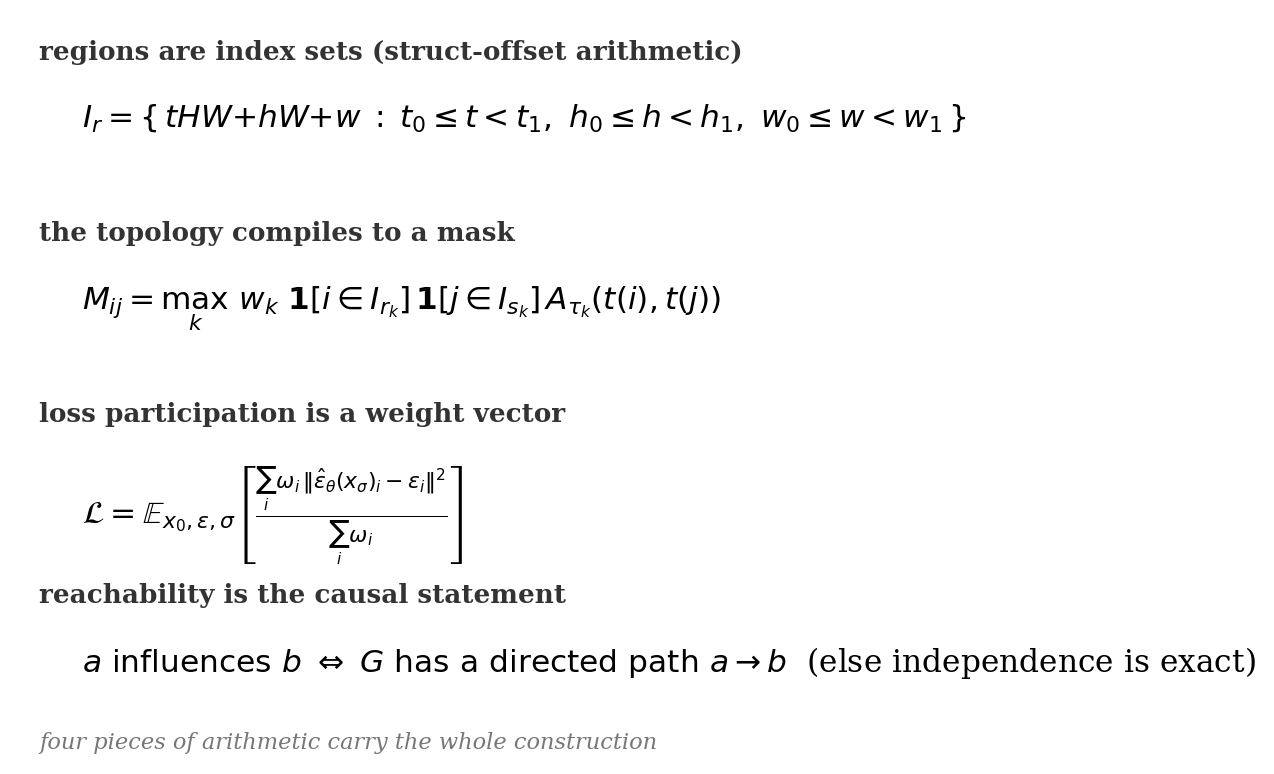
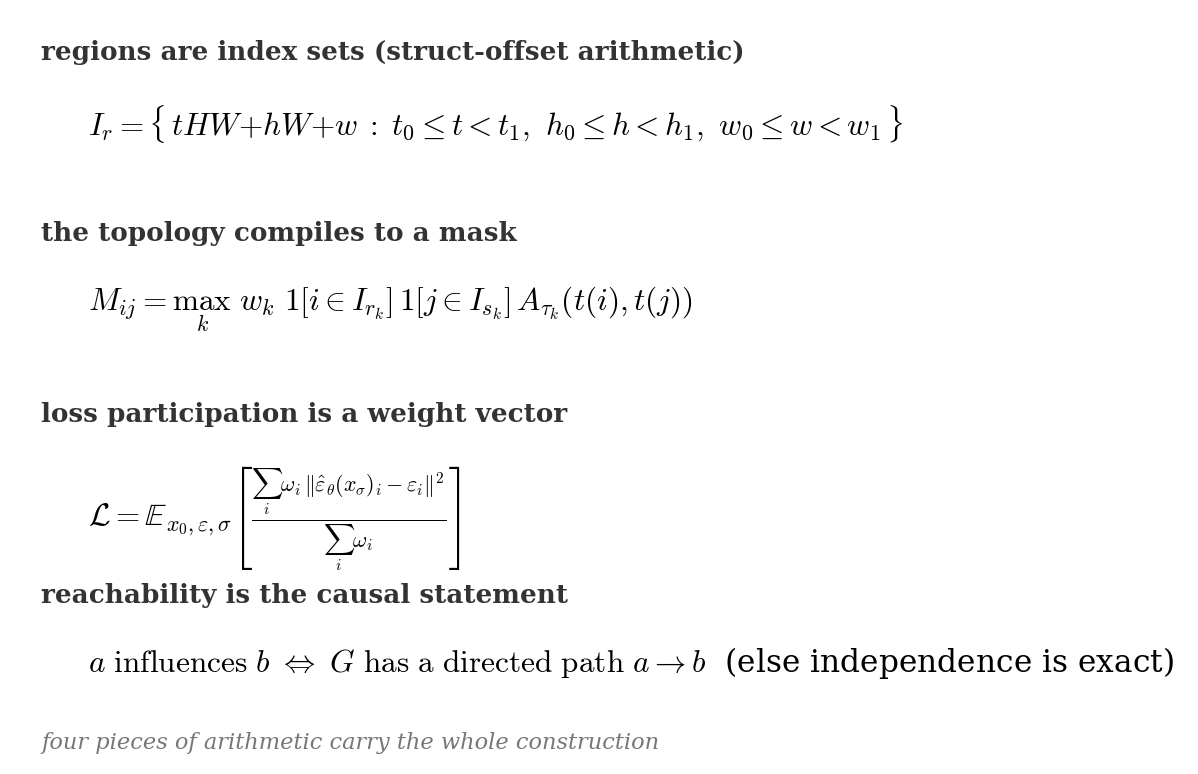
Serif math, cleaner mask, proper perspective stagger
- Set mathtext.fontset=cm so equations in the figures (math card, etc.)
  render in Computer Modern serif instead of sans DejaVu.
- attention_mask: remove the 90deg-rotated red 'N skipped' label that
  overlapped the matrix and was cropped/redundant; the break marks plus
  the 'visual*180 (164 skipped)' bar label already say it.
- render_stagger: replace the flat translation-only stagger with a real
  perspective projection — tiles tilted at a high angle, spread
  horizontally, overlapping slightly, receding with camera perspective.
  Time labels moved to each tile's lower-left, clear of the title.

diff --git a/paper/make_thread_assets.py b/paper/make_thread_assets.py
@@ -25,7 +25,8 @@ HERE = os.path.dirname(os.path.abspath(__file__))
 OUT = os.path.join(HERE, "thread_assets")
 os.makedirs(OUT, exist_ok=True)
 
-plt.rcParams.update({"font.family": "serif", "font.size": 10, "figure.dpi": 180})
+plt.rcParams.update({"font.family": "serif", "font.size": 10, "figure.dpi": 180,
+                     "mathtext.fontset": "cm"})  # Computer Modern: serif math
 
 C_VISUAL, C_ACTION, C_REWARD = "#7db8e8", "#f2a95c", "#8fd18f"
 
@@ -268,10 +269,8 @@ def attention_mask():
     axR.plot([0, m], [xb, xb], color="white", lw=3.2, zorder=6)
     break_marks(along_x=True)
     break_marks(along_x=False)
-    axR.text(xb + 0.35, m * 0.52, f"⁄⁄  {skip} visual positions skipped",
-             rotation=90, va="center", ha="left", fontsize=7.5,
-             color="#b03030",
-             bbox=dict(fc="white", ec="none", pad=0.5))
+    # (the "{skip} skipped" note lives on the visual region bar below — the old
+    # 90°-rotated red label overlapped the matrix and was redundant)
 
     # colored region bars (display widths; per-cell scale is constant → linear)
     bar = m * 0.05
@@ -491,73 +490,86 @@ def code_to_canvas():
 # information-flow edges. One edge is highlighted and annotated with the causal
 # reason it was declared. Same connectivity, attention drawn to a different edge
 # per image.
-from matplotlib.patches import FancyArrowPatch  # noqa: E402
-
-SX, SY = None, None  # set per-render
-
-
-def _center(reg, f, sx, sy):
-    c0, c1, r0, r1 = reg["c0"], reg["c1"], reg["r0"], reg["r1"]
-    return ((c0 + c1) / 2 + f * sx, (r0 + r1) / 2 + f * sy)
+from matplotlib.patches import FancyArrowPatch, Polygon  # noqa: E402
 
 
 def render_stagger(regions, edges, highlight, annotation, title, outfile,
-                   Wc, Hc, frames=3, figsize=(9.0, 4.8)):
-    sx, sy = Wc + 2.4, -1.15
+                   Wc, Hc, frames=3, figsize=(9.0, 5.0)):
+    # Perspective projection: each frame is a tile tilted back at a high angle,
+    # the tiles spread horizontally, overlap, and recede with camera
+    # perspective. project() maps frame-local (u,v) -> screen (x,y).
+    TILT = np.radians(42.0)      # high angle — tiles lean back, seen from above
+    CAM = 34.0                   # camera distance (smaller = stronger perspective)
+    STEPX = Wc * 0.82            # horizontal spread (< Wc so tiles overlap a bit)
+    STEPZ = -1.2                 # later frames sit nearer (pop forward)
+    ct, st = np.cos(TILT), np.sin(TILT)
+
+    def project(u, v, f):
+        lx = u - Wc / 2.0
+        lm = Hc / 2.0 - v                       # up-positive, v=0 is top
+        X = lx + (f - (frames - 1) / 2.0) * STEPX
+        Y = lm * ct
+        Z = lm * st + f * STEPZ                  # top recedes; later frames nearer
+        s = CAM / (CAM + Z)
+        return np.array([X * s, Y * s])
+
+    def block_poly(reg, f):
+        c0, c1, r0, r1 = reg["c0"], reg["c1"], reg["r0"], reg["r1"]
+        return [project(c0, r0, f), project(c1, r0, f),
+                project(c1, r1, f), project(c0, r1, f)]
+
+    def center(reg, f):
+        return project((reg["c0"] + reg["c1"]) / 2, (reg["r0"] + reg["r1"]) / 2, f)
+
     fig, ax = plt.subplots(figsize=figsize)
     ax.set_aspect("equal"); ax.axis("off")
-
-    # frame extents + faint slice backdrops, back (f=0) to front
-    for f in range(frames):
-        x0, y0 = f * sx, f * sy
-        ax.add_patch(Rectangle((x0 - 0.4, y0 - 0.4), Wc + 0.8, Hc + 0.8,
-                               facecolor="#fbfbfb", edgecolor="#d8d8d8",
-                               lw=0.8, zorder=1 + f * 3))
-        tlab = ["$t{-}1$", "$t$", "$t{+}1$"][f] if frames == 3 else f"$t{{+}}{f}$"
-        ax.text(x0 + Wc / 2, y0 + Hc + 0.9, tlab, ha="center", va="top",
-                fontsize=13, color="#555555")
-
     hl = next((e for e in edges if e["id"] == highlight), None)
 
+    order = list(range(frames))                 # f=0 furthest -> draw first (back)
+
+    # faint tilted slice backdrops
+    for f in order:
+        corners = [project(-0.4, -0.4, f), project(Wc + 0.4, -0.4, f),
+                   project(Wc + 0.4, Hc + 0.4, f), project(-0.4, Hc + 0.4, f)]
+        ax.add_patch(Polygon(corners, closed=True, facecolor="#fbfbfb",
+                             edgecolor="#d3d3d3", lw=0.8, zorder=1 + f * 4))
+        tl = ["$t{-}1$", "$t$", "$t{+}1$"][f] if frames == 3 else f"$t{{+}}{f}$"
+        tp = project(0.2, Hc + 0.2, f)          # lower-left corner, clear of title
+        ax.text(tp[0], tp[1], tl, ha="right", va="top", fontsize=13,
+                color="#555555", zorder=2 + f * 4)
+
     def draw_edge(e, f_from, f_to, strong):
-        p = _center(regions[e["src"]], f_from, sx, sy)
-        q = _center(regions[e["dst"]], f_to, sx, sy)
-        col = e.get("color", "#cf3a3a") if strong else "#bcbcbc"
-        lw = 2.6 if strong else 1.0
-        rad = e.get("rad", 0.12)
-        z = 40 if strong else 8
+        p, q = center(regions[e["src"]], f_from), center(regions[e["dst"]], f_to)
+        col = e.get("color", "#cf3a3a") if strong else "#b6b6b6"
         ax.add_patch(FancyArrowPatch(
-            p, q, connectionstyle=f"arc3,rad={rad}", arrowstyle="-|>",
-            mutation_scale=15 if strong else 10, color=col, lw=lw,
-            shrinkA=13, shrinkB=13, zorder=z,
-            alpha=1.0 if strong else 0.7))
+            p, q, connectionstyle=f"arc3,rad={e.get('rad', 0.12)}",
+            arrowstyle="-|>", mutation_scale=15 if strong else 10, color=col,
+            lw=2.6 if strong else 1.0, shrinkA=11, shrinkB=11,
+            zorder=90 if strong else 8, alpha=1.0 if strong else 0.7))
         return p, q
 
-    # draw non-highlight edges first (context), then blocks, then highlight
     def emit(edge_set, strong):
         for e in edge_set:
             if e["kind"] == "within":
                 for f in range(frames):
                     draw_edge(e, f, f, strong)
-            else:  # temporal: f -> f+1
+            else:
                 for f in range(frames - 1):
                     draw_edge(e, f, f + 1, strong)
 
     emit([e for e in edges if e is not hl], strong=False)
 
-    # region blocks per frame (labels on the front frame only)
-    for f in range(frames):
+    # region blocks per frame as projected quads; labels on the nearest frame
+    for f in order:
         for name, reg in regions.items():
-            x0, y0 = reg["c0"] + f * sx, reg["r0"] + f * sy
             involved = hl is not None and name in (hl["src"], hl["dst"])
-            ax.add_patch(Rectangle(
-                (x0, y0), reg["c1"] - reg["c0"], reg["r1"] - reg["r0"],
-                facecolor=reg["color"],
+            ax.add_patch(Polygon(
+                block_poly(reg, f), closed=True, facecolor=reg["color"],
                 alpha=1.0 if (involved or hl is None) else 0.45,
                 edgecolor="black", lw=1.4 if involved else 0.8,
-                zorder=20 + f * 3))
+                zorder=20 + f * 4))
             if f == frames - 1:
-                cx, cy = _center(reg, f, sx, sy)
+                cx, cy = center(reg, f)
                 ax.text(cx, cy, reg["label"], ha="center", va="center",
                         fontsize=11, family="monospace", zorder=60, weight="bold",
                         color="white" if reg.get("dark") else "black")
